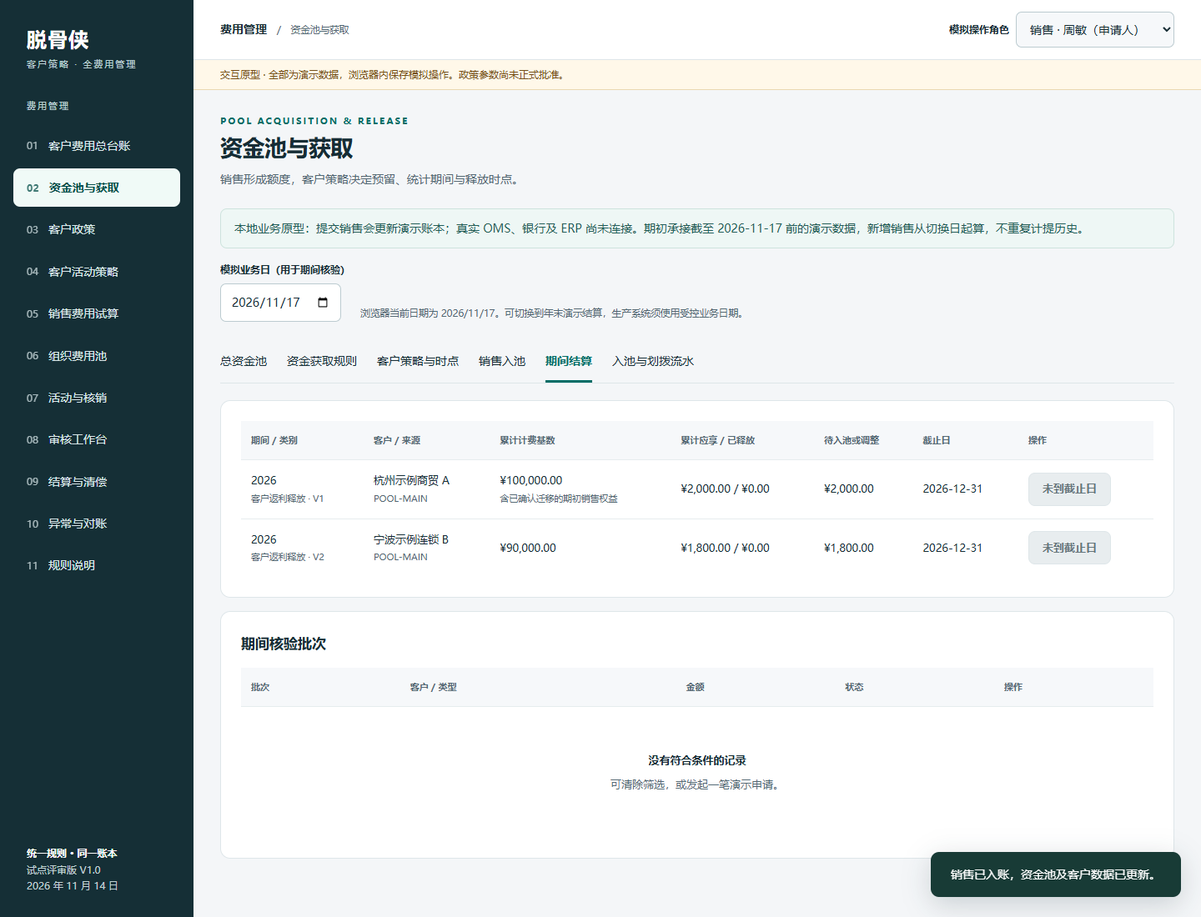
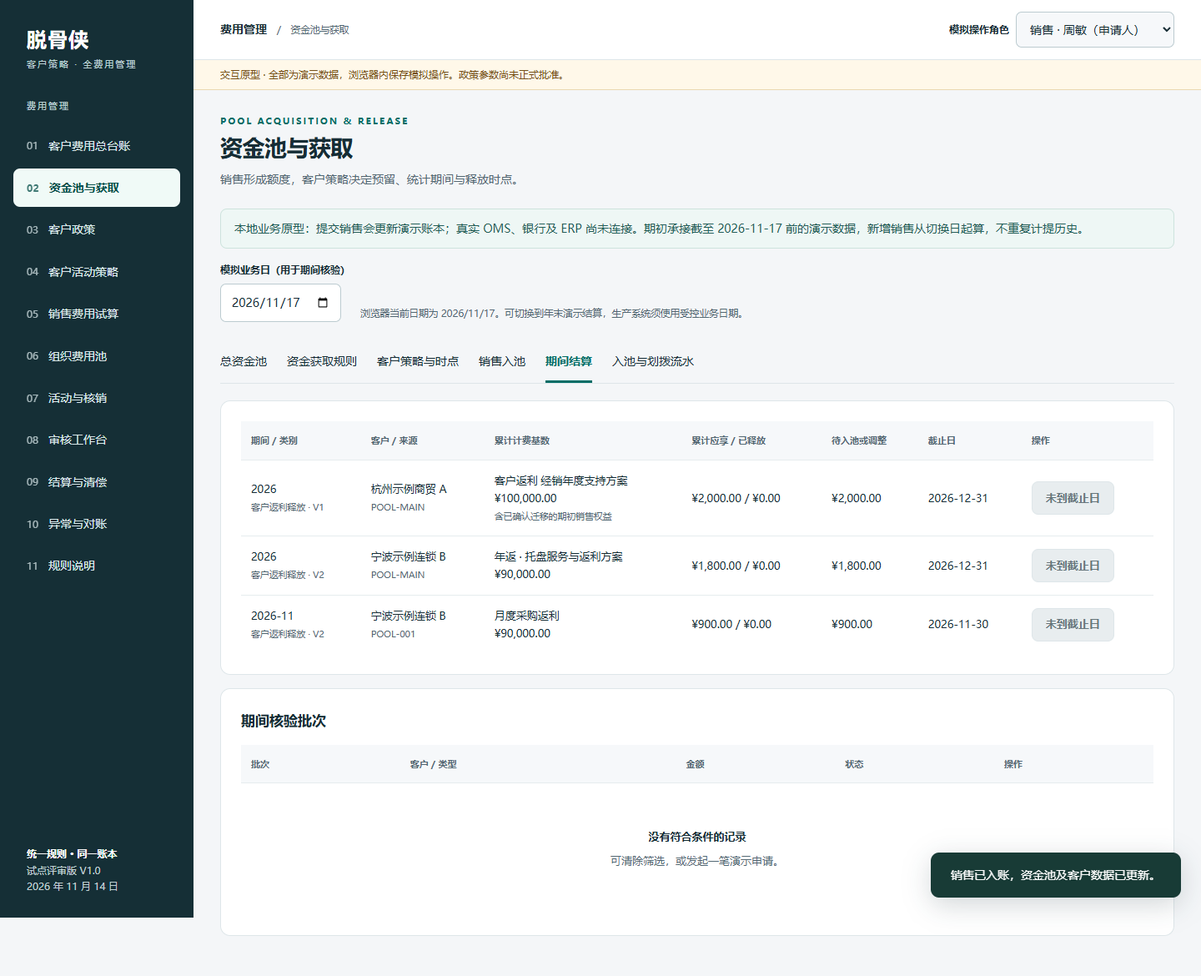
Auto sync 2026-11-17 12:02:47

diff --git a/09-设计与原型/全费用管理/原型.html b/09-设计与原型/全费用管理/原型.html
@@ -1768,26 +1768,27 @@ function ensureFunding(){if(state.funding){if(!state.funding.openingRights){stat
 function fundPeriod(date,timing){const y=date.slice(0,4),m=+date.slice(5,7);if(timing==='instant')return{key:date,end:date};if(timing==='month'){const last=new Date(Date.UTC(+y,m,0)).toISOString().slice(0,10);return{key:date.slice(0,7),end:last}}if(timing==='quarter'){const q=Math.ceil(m/3);return{key:y+'-Q'+q,end:new Date(Date.UTC(+y,q*3,0)).toISOString().slice(0,10)}}return{key:y,end:y+'-12-31'}}
 function earningAmount(rule,base,qty){if(rule.method==='quantity')return Math.round(qty*rule.unit);if(rule.method==='tier'){const hit=rule.tiers.filter(t=>base>=t.min).at(-1);return Math.round(base*(hit?.rate||0)/100)}return Math.round(base*rule.rate/100)}
 function annualEntitlement(link,base){if(link.rebateMethod!=='tier')return Math.round(base*link.rebateRate/100);if(link.tierMode==='whole')return Math.round(base*(link.tiers.filter(t=>base>=t.min).at(-1)?.rate||0)/100);return link.tiers.reduce((n,t,i)=>n+Math.round(Math.max(0,Math.min(base,link.tiers[i+1]?.min??base)-t.min)*t.rate/100),0)}
+function fundingStrategyLinks(s){return[s.link,...(s.link.strategies||[]).map(x=>({...clone(s.link),...clone(x),id:s.link.id+'/'+x.id,strategies:[],rebateMethod:'rate',serviceRate:0}))]}
 function fundingGroups(){ensureFunding();const f=state.funding,map=new Map();for(const o of f.openingRights||[]){const key='rebate|'+o.link.id+'@'+o.link.version+'|'+o.customer+'|'+o.period.key;map.set(key,{key,kind:'rebate',customer:o.customer,pool:o.link.sourcePool,period:o.period,version:o.link.version,name:'客户返利 '+o.policy.name,rows:[o.id],basis:o.base,target:0,openingReserve:o.reserve,link:o.link})}for(const s of f.sales){const rk=s.rule.id+'@'+s.rule.version,lk=s.link.id+'@'+s.link.version;
  if(s.rule.timing!=='instant'){const key='earn|'+rk+'|'+s.customer+'|'+s.period.key;if(!map.has(key))map.set(key,{key,kind:'earn',customer:s.customer,pool:s.rule.pool,period:s.period,version:s.rule.version,name:s.rule.name,rows:[],target:0,basis:0,service:0,rebate:0});const g=map.get(key);g.rows.push(s.id);g.target+=s.earning;g.basis+=s.base;g.service+=s.service;g.rebate+=s.instantRebate}
- const period=s.rebatePeriod||fundPeriod(s.date,s.link.rebateTiming);const key='rebate|'+lk+'|'+s.customer+'|'+period.key;if(!map.has(key))map.set(key,{key,kind:'rebate',customer:s.customer,pool:s.link.sourcePool,period,version:s.link.version,name:'客户返利 '+s.policy.name,rows:[],basis:0,target:0,link:s.link});const g=map.get(key);g.rows.push(s.id);g.basis+=s.base;
+ for(const link of fundingStrategyLinks(s)){const period=s.strategyPeriods?.[link.id]||s.rebatePeriod||fundPeriod(s.date,link.rebateTiming);const key='rebate|'+link.id+'@'+link.version+'|'+s.customer+'|'+period.key;if(!map.has(key))map.set(key,{key,kind:'rebate',customer:s.customer,pool:link.sourcePool,period,version:link.version,name:link.strategyName||'年返 · '+s.policy.name,rows:[],basis:0,target:0,link});const g=map.get(key);g.rows.push(s.id);g.basis+=s.base;}
  }for(const g of map.values()){g.target=Math.max(0,g.kind==='rebate'?annualEntitlement(g.link,Math.max(0,g.basis)):g.target);g.released=g.kind==='earn'?sum(f.credits.filter(c=>c.group===g.key).map(c=>c.amount)):sum(f.transfers.filter(t=>t.group===g.key).map(t=>t.amount));g.delta=g.target-g.released;g.signature=JSON.stringify([g.rows,g.target,g.basis,g.service,g.rebate]);g.ready=f.date>=g.period.end;g.pending=f.batches.find(b=>b.key===g.key&&b.status==='pending');}return[...map.values()].filter(g=>g.target||g.released||g.kind==='earn')}
 function fundingActivityBalance(poolId){const used=[0,0,0,0],occupied=[0,0,0,0];for(const a of state.activities){if((a.fundingPoolId||MAIN_POOL)!==poolId)continue;if(a.status==='closed'){splitAmount(a.actual,a.shares.map(n=>n/a.amount*100)).forEach((n,i)=>used[i]+=n)}else if(['approved','review'].includes(a.status))a.shares.forEach((n,i)=>occupied[i]+=n)}return{used,occupied}}
 function fundingPoolTotals(id){ensureFunding();const f=state.funding,p=f.pools.find(p=>p.id===id);if(!p)return null;const credits=f.credits.filter(c=>c.pool===id),earned=sum(credits.map(c=>c.amount)),incoming=sum(f.transfers.filter(t=>t.target===id).map(t=>t.amount)),outgoing=sum(f.transfers.filter(t=>t.source===id).map(t=>t.amount)),paid=sum(f.payouts.filter(x=>x.pool===id).map(x=>x.amount));
  if(p.kind==='rebate'){return{pool:p,initial:p.initial,earned:0,incoming,outgoing:0,reserve:0,used:paid,occupied:0,source:p.initial+incoming,available:Math.max(0,p.initial+incoming-paid),gap:Math.max(0,paid-p.initial-incoming),paid}}
- const initial=p.status==='active'?p.initial:0,legacyReserve=p.legacy?300000-sum(f.transfers.filter(t=>t.source===id).map(t=>t.openingConsumed||0)):0,legacyConfirmed=p.legacy?200000:0,service=sum(credits.map(c=>c.service||0)),immediateR=Math.max(0,sum(credits.map(c=>c.rebate||0))-sum(f.transfers.filter(t=>t.source===id&&f.batches.find(b=>b.id===t.batch)?.instantRebate).map(t=>t.amount)));const early=sum(fundingGroups().filter(g=>g.kind==='rebate'&&g.pool===id&&g.link.lockEarly&&g.link.rebateTiming!=='instant').map(g=>Math.max(0,g.delta-Math.max(0,(g.openingReserve||0)-Math.min(g.released,g.openingReserve||0)))));const a=fundingActivityBalance(id),reserve=legacyReserve+service+immediateR+early,source=initial+earned,used=legacyConfirmed+sum(a.used),occupied=sum(a.occupied),raw=source-outgoing-reserve-used-occupied;return{pool:p,initial,earned,incoming:0,outgoing,reserve,service,early,source,used,occupied,available:Math.max(0,raw),gap:Math.max(0,-raw),activity:a,raw,legacyConfirmed}}
+ const initial=p.status==='active'?p.initial:0,legacyReserve=p.legacy?300000-sum(f.transfers.filter(t=>t.source===id).map(t=>t.openingConsumed||0)):0,legacyConfirmed=p.legacy?200000:0,service=sum(credits.map(c=>c.service||0)),immediateR=sum(fundingGroups().filter(g=>g.kind==='rebate'&&g.pool===id&&g.link.rebateTiming==='instant').map(g=>Math.max(0,g.delta)));const early=sum(fundingGroups().filter(g=>g.kind==='rebate'&&g.pool===id&&g.link.lockEarly&&g.link.rebateTiming!=='instant').map(g=>Math.max(0,g.delta-Math.max(0,(g.openingReserve||0)-Math.min(g.released,g.openingReserve||0)))));const a=fundingActivityBalance(id),reserve=legacyReserve+service+immediateR+early,source=initial+earned,used=legacyConfirmed+sum(a.used),occupied=sum(a.occupied),raw=source-outgoing-reserve-used-occupied;return{pool:p,initial,earned,incoming:0,outgoing,reserve,service,early,source,used,occupied,available:Math.max(0,raw),gap:Math.max(0,-raw),activity:a,raw,legacyConfirmed}}
 function fundingOrgBalances(id){const t=fundingPoolTotals(id);if(!t||t.pool.kind!=='operating')return{used:[0,0,0,0],occupied:[0,0,0,0],available:[0,0,0,0],gap:[0,0,0,0]};const gross=t.source-t.reserve-t.legacyConfirmed-t.outgoing,distributed=splitAmount(gross,t.pool.ratios);return{...t.activity,available:distributed.map((v,i)=>Math.max(0,v-t.activity.used[i]-t.activity.occupied[i])),gap:distributed.map((v,i)=>Math.max(0,t.activity.used[i]+t.activity.occupied[i]-v)),gross:distributed}}
 function postFundingSale(input){ensureFunding();const f=state.funding;if(input.date<FUND_CUTOVER)throw Error('切换日前销售已由期初承接，请使用迁移核对，不能重复计提。');if(input.date>f.date)throw Error('销售日期不能晚于模拟业务日。');if(!input.doc.trim()||!input.line.trim())throw Error('请填写来源订单与行号。');const duplicate=f.sales.some(s=>s.doc===input.doc&&s.line===input.line&&s.kind===input.kind);if(duplicate)throw Error('同一来源订单行与事件已处理，不能重复计提。更正需关联原销售调整。');let s;
  if(input.kind==='return'){const original=f.sales.find(s=>s.id===input.original&&s.kind==='sale');if(!original)throw Error('请选择原销售行。');if(input.date<original.date)throw Error('退货业务日期不能早于原销售。');const returned=f.sales.filter(s=>s.original===original.id);const remain=original.base+sum(returned.map(s=>s.base)),qtyLeft=original.qty+sum(returned.map(s=>s.qty));if(input.base<=0||input.base>remain||input.qty<0||input.qty>qtyLeft)throw Error('退货金额或数量超过原销售剩余可退部分。');if(original.rule.method==='quantity'&&input.qty<=0)throw Error('按数量获取的退货必须填写正数退货数量。');const before=earningAmount(original.rule,remain,qtyLeft),after=earningAmount(original.rule,remain-input.base,qtyLeft-input.qty);s={...clone(original),id:nextId('SALE-',f.sales),kind:'return',original:original.id,doc:input.doc,line:input.line,date:input.date,base:-input.base,qty:-input.qty,earning:after-before,service:-Math.round(input.base*original.link.serviceRate/100),instantRebate:0};s.instantRebate=original.link.rebateTiming==='instant'?-Math.round(input.base*original.link.rebateRate/100):0;s.period=original.period;
  }else{if(input.base<=0||input.qty<0)throw Error('请填写正数销售金额和非负数量。');const candidates=[...(f.ruleVersions||[]),...f.rules].filter(r=>r.status==='active'&&r.from<=input.date&&r.to>=input.date);const matches=[...new Map(candidates.sort((a,b)=>a.version-b.version).map(r=>[r.id,r])).values()].filter(r=>(r.customer==='*'||r.customer===input.customer)&&(r.sku==='*'||r.sku===input.sku));if(matches.length!==1)throw Error(matches.length?'资金获取规则冲突，请保证唯一匹配。':'未匹配有效资金获取规则，请先配置。');const rule=clone(matches[0]),linkCandidates=[...(f.bindingVersions||[]),...f.bindings].filter(l=>l.status==='active'&&l.customer===input.customer&&l.from<=input.date&&l.to>=input.date);const links=[...new Map(linkCandidates.sort((a,b)=>a.version-b.version).map(l=>[l.id,l])).values()];if(links.length!==1)throw Error('客户资金策略缺失或冲突，请先配置唯一有效版本。');const link=clone(links[0]),policy=state.policySchemes.find(p=>p.id===link.policyId&&p.status==='active');if(!policy||policy.customer!==input.customer||link.sourcePool!==rule.pool)throw Error('客户政策、来源池与获取规则不一致，请核对。');const pool=f.pools.find(p=>p.id===rule.pool);if(pool?.status!=='active'||pool.kind!=='operating')throw Error('目标资金池尚未启用或不允许销售获取。');s={...input,id:nextId('SALE-',f.sales),kind:'sale',rule,link,policy:clone(policy),period:fundPeriod(input.date,rule.timing),earning:earningAmount(rule,input.base,input.qty),service:Math.round(input.base*link.serviceRate/100),instantRebate:link.rebateTiming==='instant'?Math.round(input.base*link.rebateRate/100):0};}
- if(!Number.isSafeInteger(s.earning))throw Error('金额超出有效精度范围。');s.rebatePeriod=s.rebatePeriod||fundPeriod(s.date,s.link.rebateTiming);s.status=s.rule.timing==='instant'?'posted':'period';if(s.rule.timing==='instant'&&!(s.kind==='return'&&!f.credits.some(c=>c.sale===s.original))){const p=f.pools.find(p=>p.id===s.rule.pool),current=fundingPoolTotals(p.id);if(s.earning>0&&current.source+s.earning>p.cap){s.status='blocked'}else f.credits.push({id:nextId('CREDIT-',f.credits),pool:p.id,customer:s.customer,sale:s.id,amount:s.earning,service:s.service,rebate:s.instantRebate,rule:s.rule.id,ruleVersion:s.rule.version,date:f.date});}
+ if(!Number.isSafeInteger(s.earning))throw Error('金额超出有效精度范围。');s.rebatePeriod=s.rebatePeriod||fundPeriod(s.date,s.link.rebateTiming);if(!s.strategyPeriods){s.strategyPeriods={};for(const link of fundingStrategyLinks(s))s.strategyPeriods[link.id]=fundPeriod(s.date,link.rebateTiming);}s.status=s.rule.timing==='instant'?'posted':'period';if(s.rule.timing==='instant'&&!(s.kind==='return'&&!f.credits.some(c=>c.sale===s.original))){const p=f.pools.find(p=>p.id===s.rule.pool),current=fundingPoolTotals(p.id);if(s.earning>0&&current.source+s.earning>p.cap){s.status='blocked'}else f.credits.push({id:nextId('CREDIT-',f.credits),pool:p.id,customer:s.customer,sale:s.id,amount:s.earning,service:s.service,rebate:s.instantRebate,rule:s.rule.id,ruleVersion:s.rule.version,date:f.date});}
  if(s.kind==='return'&&s.rule.timing==='instant'&&!f.credits.some(c=>c.sale===s.original))s.status='pendingOriginal';f.sales.push(s);save();return s}
 function retryFundingSale(id){const f=state.funding,s=f.sales.find(s=>s.id===id);if(s?.status!=='blocked')throw Error('该销售无需重试。');const returns=f.sales.filter(r=>r.original===s.id),base=s.base+sum(returns.map(r=>r.base)),qty=s.qty+sum(returns.map(r=>r.qty)),amount=earningAmount(s.rule,base,qty),p=f.pools.find(p=>p.id===s.rule.pool);if(fundingPoolTotals(p.id).source+amount>p.cap)throw Error('仍超过预算上限，请先审批调整上限。');f.credits.push({id:nextId('CREDIT-',f.credits),pool:p.id,customer:s.customer,sale:s.id,amount,service:Math.round(base*s.link.serviceRate/100),rebate:s.link.rebateTiming==='instant'?Math.round(base*s.link.rebateRate/100):0,rule:s.rule.id,ruleVersion:s.rule.version,date:f.date});s.status='posted';returns.forEach(r=>r.status='posted');save()}
 function prepareFundingBatch(key){const f=state.funding,g=fundingGroups().find(g=>g.key===key);if(!g||!g.ready)throw Error('统计期间尚未结束，不能提前入池或释放。');if(g.pending)throw Error('同一期间已有待审批次。');if(g.delta<=0)throw Error(g.delta<0?'已释放金额超过最新应享，请保留历史并进入冲销或追偿调整，不能重复释放。':'本期间无待处理差额。');if($('role').value!=='sales')throw Error('请由销售申请人发起期间核验。');const b={id:nextId('BATCH-',f.batches),key:g.key,kind:g.kind,customer:g.customer,pool:g.pool,amount:g.delta,target:g.target,basis:g.basis,signature:g.signature,period:g.period,service:(g.service||0)-sum(f.credits.filter(c=>c.group===g.key).map(c=>c.service||0)),rebate:(g.rebate||0)-sum(f.credits.filter(c=>c.group===g.key).map(c=>c.rebate||0)),instantRebate:g.link?.rebateTiming==='instant',status:'pending',step:0,applicant:'sales',logs:[{who:'sales',action:'提交期间核验',date:f.date}]};f.batches.push(b);save();return b}
 function approveFundingBatch(id,reject,note){const f=state.funding,b=f.batches.find(b=>b.id===id),role=$('role').value;if(b?.status!=='pending')throw Error('该批次无待审节点。');if(role===b.applicant)throw Error('不能审批本人申请。');if(role!==['business','finance'][b.step])throw Error('当前需要 '+roles[['business','finance'][b.step]]+'。');if(reject&&!note.trim())throw Error('请填写驳回原因。');const g=fundingGroups().find(g=>g.key===b.key);if(!reject&&(!g||g.signature!==b.signature))throw Error('销售或退货明细已变化，请驳回后按最新累计结果重新申请。');if(f.date<b.period.end)throw Error('未到期间截止日。');
  if(!reject&&b.step===1){if(b.kind==='earn'){const pool=f.pools.find(p=>p.id===b.pool);if(fundingPoolTotals(pool.id).source+b.amount>pool.cap)throw Error('入池后超过预算上限，请先调整授权上限。');f.credits.push({id:nextId('CREDIT-',f.credits),pool:pool.id,customer:b.customer,group:b.key,batch:b.id,amount:b.amount,service:b.service,rebate:b.rebate,date:f.date})}else{const pool=fundingPoolTotals(b.pool),openingLock=Math.max(0,(g.openingReserve||0)-Math.min(g.released,g.openingReserve||0)),ownLock=g.link.lockEarly||g.link.rebateTiming==='instant'?Math.max(0,g.delta):openingLock;if(pool.available+ownLock-pool.gap<b.amount)throw Error('来源池余额不足，返利权益保留，请先补足资金。');const target='REBATE-'+b.customer;if(!f.pools.some(p=>p.id===target))f.pools.push({id:target,name:customer(b.customer).name+'返利专属池',kind:'rebate',customer:b.customer,initial:0,cap:Number.MAX_SAFE_INTEGER,status:'active',from:'2026-01-01',to:'2099-12-31'});f.transfers.push({id:nextId('TRANSFER-',f.transfers),source:b.pool,target,customer:b.customer,amount:b.amount,group:b.key,batch:b.id,openingConsumed:Math.min(b.amount,openingLock),date:f.date});const after=fundingOrgBalances(b.pool);if(after.gap.some(n=>n>0)){f.transfers.pop();throw Error('来源池部分组织额度已被占用，请先完成组织补足或调拨。');}b.targetPool=target}}
  b.logs.push({who:role,action:reject?'驳回':'通过',note,date:f.date});if(reject)b.status='rejected';else if(++b.step===2)b.status='approved';save();return b}
-function fundingCustomerData(cid){const f=state.funding,sales=f.sales.filter(s=>s.customer===cid),credits=f.credits.filter(c=>c.customer===cid),groups=fundingGroups().filter(g=>g.customer===cid&&g.kind==='rebate'),released=sum(f.transfers.filter(t=>t.customer===cid).map(t=>t.amount)),paid=sum(f.payouts.filter(p=>p.customer===cid).map(p=>p.amount));return{sales:sum(sales.map(s=>s.base)),earned:sum(credits.map(c=>c.amount)),service:sum(credits.map(c=>c.service||0)),instantR:sum(credits.map(c=>c.rebate||0)),pending:sum(groups.map(g=>Math.max(0,g.delta))),released,paid,rebateAvailable:released-paid,groups}}
+function fundingCustomerData(cid){const f=state.funding,sales=f.sales.filter(s=>s.customer===cid),credits=f.credits.filter(c=>c.customer===cid),groups=fundingGroups().filter(g=>g.customer===cid&&g.kind==='rebate'),released=sum(f.transfers.filter(t=>t.customer===cid).map(t=>t.amount)),paid=sum(f.payouts.filter(p=>p.customer===cid).map(p=>p.amount));return{sales:sum(sales.map(s=>s.base)),earned:sum(credits.map(c=>c.amount)),service:sum(credits.map(c=>c.service||0)),instantR:sum(groups.filter(g=>g.link.rebateTiming==='instant').map(g=>Math.max(0,g.delta))),pending:sum(groups.map(g=>Math.max(0,g.delta))),released,paid,rebateAvailable:released-paid,groups}}
 
 const fundingTiming={instant:'即时入池',month:'月末核验',quarter:'季末核验',year:'年末核验'};let fundingTab='pools';
 if(!pages.some(p=>p[0]==='funding')){pages.splice(1,0,['funding','02','资金池与获取']);pages.forEach((p,i)=>p[1]=String(i+1).padStart(2,'0'))}
@@ -1796,17 +1797,20 @@ const fs=(id,label,options,current,extra='')=>`<div class="field"><label for="${
 function fundingView(){ensureFunding();const f=state.funding;return heading('POOL ACQUISITION & RELEASE','资金池与获取','销售形成额度，客户策略决定预留、统计期间与释放时点。')+`<div class="banner">本地业务原型：提交销售会更新演示账本；真实 OMS、银行及 ERP 尚未连接。期初承接截至 ${FUND_CUTOVER} 前的演示数据，新增销售从切换日起算，不重复计提历史。</div><div class="toolbar"><div><label for="fundingDate">模拟业务日（用于期间核验）</label><input type="date" id="fundingDate" value="${f.date}"></div><small>浏览器当前日期为 ${new Date().toLocaleDateString('zh-CN')}。可切换到年末演示结算，生产系统须使用受控业务日期。</small></div><div class="tabs">${[['pools','总资金池'],['rules','资金获取规则'],['bindings','客户策略与时点'],['sales','销售入池'],['period','期间结算'],['flows','入池与划拨流水']].map(([id,n])=>`<button data-funding-tab="${id}" aria-selected="${fundingTab===id}">${n}</button>`).join('')}</div>${({pools:fundingPoolsView,rules:fundingRulesView,bindings:fundingBindingsView,sales:fundingSalesView,period:fundingPeriodView,flows:fundingFlowsView})[fundingTab]()}`}
 function fundingPoolsView(){return`<div class="actions" style="margin-bottom:16px"><button class="primary" data-funding-pool-new>新建资金池</button></div><section class="card">${table(['资金池 / 用途','预算上限','初始来源 / 销售获取','划入 / 划出','预留','已用 / 占用','可用 / 缺口','操作'],state.funding.pools.map(p=>{const t=fundingPoolTotals(p.id);return[`${esc(p.name)}<br><small>${p.id} · ${p.kind==='rebate'?'客户返利专属，禁止普通活动':'经营活动总池'} · ${p.status==='active'?'已启用':'草稿'}</small>`,p.kind==='rebate'?'按批准返利批次':money(p.cap),money(t.initial)+' / '+money(t.earned),money(t.incoming)+' / '+money(t.outgoing),money(t.reserve),money(t.used)+' / '+money(t.occupied),`<strong>${money(t.available)}</strong> / ${money(t.gap)}`,`<button class="small" data-funding-pool="${p.id}">配置</button>${p.status==='draft'?`<button class="small" data-funding-activate="${p.id}">财务启用</button>`:''}`]}))}</section><p class="note">总池与客户返利池是来源与用途的分账，内部划拨不增加公司总来源。客户返利专属池只能用于已批准返利清偿。上限不是已获取资金。</p>`}
 function fundingRulesView(){return`<div class="actions" style="margin-bottom:16px"><button class="primary" data-funding-rule-new>新建获取规则</button></div><section class="card">${table(['获取规则 / 版本','目标池 / 客户 / SKU','获取方式','入池时点','有效期','操作'],state.funding.rules.map(r=>[esc(r.name)+'<br><small>'+r.id+' / V'+r.version+'</small>',esc(r.pool)+'<br><small>'+(r.customer==='*'?'全部客户':customer(r.customer).name)+' / '+esc(r.sku)+'</small>',r.method==='quantity'?money(r.unit)+' / 数量':r.method==='tier'?'单笔金额阶梯，达档全额':r.rate+'% × 不含税净销售额',fundingTiming[r.timing],r.from+' 至 '+r.to,`<button class="small" data-funding-rule="${r.id}">新版本配置</button>`]))}</section><p class="note">同一销售行必须唯一匹配规则；保存新版本后，新销售使用新版本，原销售和退货继续引用原快照。</p>`}
-function fundingBindingsView(){return`<section class="card">${table(['客户 / 商业政策','来源池','返利计提','返利入池时点','年内来源处理','服务预留','操作'],state.funding.bindings.map(l=>[customer(l.customer).name+'<br><small>'+l.policyId+' / 配置 V'+l.version+'</small>',l.sourcePool,l.rebateMethod==='tier'?'按期间净销售阶梯':l.rebateRate+'% × 净销售额',fundingTiming[l.rebateTiming],l.lockEarly?'先统计并锁定来源额度':'先统计，不提前增加返利池余额',l.serviceRate+'%',`<button class="small" data-funding-binding="${l.id}">配置时点与来源</button>`]))}</section><div class="banner">年返先累计应享权益，年末核验、审批后从来源池划入客户返利池；实际发放再清偿客户应付。可选择年内提前预留来源资金，但不能提前把预计返利当成客户可用额度。</div>`}
+function fundingBindingsView(){return`<section class="card">${table(['客户 / 商业政策','来源池','返利计提','返利入池时点','年内来源处理','服务预留','操作'],state.funding.bindings.map(l=>[customer(l.customer).name+'<br><small>'+l.policyId+' / 配置 V'+l.version+'</small>',l.sourcePool,l.rebateMethod==='tier'?'按期间净销售阶梯':l.rebateRate+'% × 净销售额',fundingTiming[l.rebateTiming],l.lockEarly?'先统计并锁定来源额度':'先统计，不提前增加返利池余额',l.serviceRate+'%<br><small>另有 '+(l.strategies||[]).length+' 条返利策略</small>',`<button class="small" data-funding-binding="${l.id}">配置时点与来源</button>`]))}</section><div class="banner">年返先累计应享权益，年末核验、审批后从来源池划入客户返利池；实际发放再清偿客户应付。可选择年内提前预留来源资金，但不能提前把预计返利当成客户可用额度。</div>`}
 function fundingSalesView(){return`<div class="actions" style="margin-bottom:16px"><button class="primary" data-funding-sale-new>登记签收销售 / 退货</button></div><section class="card">${table(['事件 / 来源行','客户 / 日期','净销售 / 数量','规则与客户策略快照','计提获取额','状态','操作'],state.funding.sales.map(s=>[s.id+'<br><small>'+esc(s.doc)+' / '+esc(s.line)+' · '+(s.kind==='return'?'退货关联 '+s.original:'有效签收')+'</small>',customer(s.customer).name+'<br><small>'+s.date+'</small>',money(s.base)+' / '+s.qty,s.rule.id+' V'+s.rule.version+'<br><small>'+s.link.id+' V'+s.link.version+'</small>',money(s.earning),({posted:tag('已同步账本','ok'),period:tag('待期间入池','warn'),blocked:tag('超过上限，待处理','bad'),pendingOriginal:tag('等待原销售入池','warn')})[s.status],s.status==='blocked'?`<button data-funding-retry="${s.id}">重试入池</button>`:'—']))}</section>`}
-function fundingPeriodView(){return`<section class="card">${table(['期间 / 类别','客户 / 来源','累计计费基数','累计应享 / 已释放','待入池或调整','截止日','操作'],fundingGroups().map(g=>[g.period.key+'<br><small>'+(g.kind==='earn'?'销售获取入池':'客户返利释放')+' · V'+g.version+'</small>',customer(g.customer).name+'<br><small>'+g.pool+'</small>',money(g.basis)+(g.openingReserve?'<br><small>含已确认迁移的期初销售权益</small>':''),money(g.target)+' / '+money(g.released),money(g.delta)+(g.delta<0?'<br>'+tag('需冲销或追偿','bad'):''),g.period.end, g.pending?`<button data-funding-batch="${g.pending.id}">查看待审</button>`:g.delta>0?`<button data-funding-prepare="${esc(g.key)}" ${g.ready?'':'disabled'}>${g.ready?'发起期间核验':'未到截止日'}</button>`:'—']))}</section><section class="card" style="margin-top:16px"><h2>期间核验批次</h2>${table(['批次','客户 / 类型','金额','状态','操作'],state.funding.batches.map(b=>[b.id,customer(b.customer).name+' / '+(b.kind==='earn'?'销售入池':'客户返利'),money(b.amount),({pending:tag('待'+roles[['business','finance'][b.step]],'warn'),approved:tag('已入池','ok'),rejected:tag('已驳回','bad')})[b.status],`<button data-funding-batch="${b.id}">审批记录</button>`]))}</section>`}
+function fundingPeriodView(){return`<section class="card">${table(['期间 / 类别','客户 / 来源','累计计费基数','累计应享 / 已释放','待入池或调整','截止日','操作'],fundingGroups().map(g=>[g.period.key+'<br><small>'+(g.kind==='earn'?'销售获取入池':'客户返利释放')+' · V'+g.version+'</small>',customer(g.customer).name+'<br><small>'+g.pool+'</small>',esc(g.name)+'<br>'+money(g.basis)+(g.openingReserve?'<br><small>含已确认迁移的期初销售权益</small>':''),money(g.target)+' / '+money(g.released),money(g.delta)+(g.delta<0?'<br>'+tag('需冲销或追偿','bad'):''),g.period.end, g.pending?`<button data-funding-batch="${g.pending.id}">查看待审</button>`:g.delta>0?`<button data-funding-prepare="${esc(g.key)}" ${g.ready?'':'disabled'}>${g.ready?'发起期间核验':'未到截止日'}</button>`:'—']))}</section><section class="card" style="margin-top:16px"><h2>期间核验批次</h2>${table(['批次','客户 / 类型','金额','状态','操作'],state.funding.batches.map(b=>[b.id,customer(b.customer).name+' / '+(b.kind==='earn'?'销售入池':'客户返利'),money(b.amount),({pending:tag('待'+roles[['business','finance'][b.step]],'warn'),approved:tag('已入池','ok'),rejected:tag('已驳回','bad')})[b.status],`<button data-funding-batch="${b.id}">审批记录</button>`]))}</section>`}
 function fundingFlowsView(){const f=state.funding;return`<section class="card"><h2>销售获取入池流水</h2>${table(['流水','目标池 / 客户','来源销售或批次','入池 / 服务预留 / 即时返利预留','日期'],f.credits.map(c=>[c.id,c.pool+' / '+customer(c.customer).name,c.sale||c.batch,money(c.amount)+' / '+money(c.service||0)+' / '+money(c.rebate||0),c.date]))}<h2 style="margin-top:24px">返利来源划拨</h2>${table(['流水','来源 → 返利专属池','客户 / 批次','金额','日期'],f.transfers.map(t=>[t.id,t.source+' → '+t.target,customer(t.customer).name+' / '+t.batch,money(t.amount),t.date]))}<h2 style="margin-top:24px">已发放返利</h2>${table(['清偿流水','客户 / 批次','方式','金额','业务日期'],f.payouts.map(p=>[esc(p.ref),customer(p.customer).name+' / '+p.batch,p.method==='cash'?'现金':'货款抵扣',money(p.amount),p.date]))}</section>`}
 function openFundingPool(id){const p=state.funding.pools.find(p=>p.id===id)||{name:'',initial:0,cap:10000000,from:FUND_CUTOVER,to:'2026-12-31',kind:'operating',status:'draft',ratios:[10,20,20,50]},active=p.status==='active';launchPage({kind:'fundingPool',id},()=>showModal(id?'资金池配置':'新建资金池',`<form id="fundingPoolForm" data-id="${id||''}"><div class="fields">${ff('fpName','资金池名称 *',p.name,'text','required maxlength="60"')}${ff('fpInitial','初始来源（元）',p.initial/100,'number',`min="0" step="0.01" required ${active?'readonly':''}`)}${ff('fpCap','预算上限（元）',p.kind==='rebate'?p.initial/100:p.cap/100,'number',`min="0" step="0.01" required ${p.kind==='rebate'?'readonly':''}`)}${ff('fpFrom','开始日期',p.from,'date','required')}${ff('fpTo','结束日期',p.to,'date','required')}${(p.ratios||[0,0,0,100]).map((v,i)=>ff('fpRatio'+i,['总部','中心','大区','省区'][i]+'分配 %',v,'number',`min="0" max="100" step="0.01" required ${active?'readonly':''}`)).join('')}</div><p class="note">启用后初始来源及组织比例固定，补充资金可新建独立来源池，避免改写历史。修改上限由财务角色处理，不能降到已使用和承诺之下。</p><p id="fundingError" class="error-text" role="alert"></p><button class="primary">保存资金池配置</button></form>`))}
 function fundingTierFields(prefix,tiers){return tiers.map((t,i)=>`<div class="fields" style="margin-top:8px">${ff(prefix+'Min'+i,'第'+(i+1)+'档门槛（元）',t.min/100,'number','min="0" step="0.01" required')}${ff(prefix+'Rate'+i,'第'+(i+1)+'档比例 %',t.rate,'number','min="0" max="100" step="0.01" required')}</div>`).join('')}
 function openFundingRule(id){const r=state.funding.rules.find(r=>r.id===id)||{name:'',pool:MAIN_POOL,customer:'*',sku:'*',method:'rate',rate:10,unit:100,timing:'instant',from:FUND_CUTOVER,to:'2026-12-31',tiers:[{min:5000000,rate:1},{min:10000000,rate:2},{min:20000000,rate:3}]};launchPage({kind:'fundingRule',id},()=>showModal('资金获取规则'+(id?'新版本':''),`<form id="fundingRuleForm" data-id="${id||''}"><div class="fields">${ff('frName','规则名称 *',r.name,'text','required')}${fs('frPool','目标资金池',state.funding.pools.filter(p=>p.kind==='operating'&&p.status==='active').map(p=>[p.id,p.name]),r.pool)}${fs('frCustomer','适用客户',[['*','全部客户'],...customers.map(c=>[c.id,c.name])],r.customer)}${ff('frSku','适用 SKU，* 为全部',r.sku,'text','required')}${fs('frMethod','获取方式',[['rate','销售金额比例'],['quantity','每数量固定金额'],['tier','单笔金额阶梯达档全额']],r.method)}${ff('frRate','金额比例 %',r.rate,'number','min="0" max="100" step="0.01" required')}${ff('frUnit','每数量获取（元）',r.unit/100,'number','min="0" step="0.01" required')}${fs('frTiming','入池时点',Object.entries(fundingTiming),r.timing)}${ff('frFrom','生效日期',r.from,'date','required')}${ff('frTo','结束日期',r.to,'date','required')}</div><section id="frTierSection"><h3>单笔阶梯</h3>${fundingTierFields('fr',r.tiers)}</section><p class="note">完成签收后自动匹配。月、季、年末方式只先记录待入池，核验审批后才增加可用来源。保存新版本不会重算历史销售。</p><p id="fundingError" class="error-text" role="alert"></p><button class="primary">保存规则新版本</button></form>`))}
-function openFundingBinding(id){const l=state.funding.bindings.find(l=>l.id===id);launchPage({kind:'fundingBinding',id},()=>showModal(customer(l.customer).name+' · 客户策略资金时点',`<form id="fundingBindingForm" data-id="${id}"><div class="banner">配置 V${l.version}；新销售使用新版本，既有销售及年返统计保留原快照。入池与给客户付款是两个独立步骤。</div><div class="fields">${fs('fbPolicy','客户商业政策',state.policySchemes.filter(p=>p.customer===l.customer&&p.status==='active').map(p=>[p.id,p.name+' V'+p.version]),l.policyId)}${fs('fbPool','返利来源池',state.funding.pools.filter(p=>p.kind==='operating'&&p.status==='active').map(p=>[p.id,p.name]),l.sourcePool)}${fs('fbTiming','客户返利核验释放时点',Object.entries(fundingTiming),l.rebateTiming)}${fs('fbMethod','返利计算',[['rate','期间净销售固定比例'],['tier','期间累计阶梯']],l.rebateMethod)}${ff('fbRate','固定返利比例 %',l.rebateRate,'number','min="0" max="100" step="0.01" required')}${fs('fbTierMode','累计阶梯方式',[['whole','达档全额'],['segment','按区间分段']],l.tierMode)}${fs('fbLock','入池前的来源处理',[['no','先记录，期末再从来源池划拨'],['yes','先记录并预留来源额度，期末释放']],l.lockEarly?'yes':'no')}${ff('fbService','服务费用销售预留 %',l.serviceRate,'number','min="0" max="100" step="0.01" required')}${ff('fbFrom','新配置生效日',l.from,'date','required')}${ff('fbTo','配置结束日',l.to,'date','required')}</div><section id="fbTierSection"><h3>年返或期间累计阶梯</h3><p class="note">累计阶梯用于月、季、年末；即时核验只支持固定比例。门槛以下按0%计算，分段方式仅对超过每档门槛的区间计提。</p>${fundingTierFields('fb',l.tiers)}</section><div class="banner warn">客户返利默认进入该客户专属返利池，只能结算返利。来源池余额不足时保留客户应享权益，不能自动取消或少返。即时释放同样先核验应享，不直接冒充客户已收款。</div><p id="fundingError" class="error-text" role="alert"></p><button class="primary">保存客户资金策略新版本</button></form>`))}
+function openFundingBinding(id){const l=state.funding.bindings.find(l=>l.id===id);launchPage({kind:'fundingBinding',id},()=>showModal(customer(l.customer).name+' · 客户策略资金时点',`<form id="fundingBindingForm" data-id="${id}"><div class="banner">配置 V${l.version}；新销售使用新版本，既有销售及年返统计保留原快照。入池与给客户付款是两个独立步骤。</div><div class="fields">${fs('fbPolicy','客户商业政策',state.policySchemes.filter(p=>p.customer===l.customer&&p.status==='active').map(p=>[p.id,p.name+' V'+p.version]),l.policyId)}${fs('fbPool','返利来源池',state.funding.pools.filter(p=>p.kind==='operating'&&p.status==='active').map(p=>[p.id,p.name]),l.sourcePool)}${fs('fbTiming','客户返利核验释放时点',Object.entries(fundingTiming),l.rebateTiming)}${fs('fbMethod','返利计算',[['rate','期间净销售固定比例'],['tier','期间累计阶梯']],l.rebateMethod)}${ff('fbRate','固定返利比例 %',l.rebateRate,'number','min="0" max="100" step="0.01" required')}${fs('fbTierMode','累计阶梯方式',[['whole','达档全额'],['segment','按区间分段']],l.tierMode)}${fs('fbLock','入池前的来源处理',[['no','先记录，期末再从来源池划拨'],['yes','先记录并预留来源额度，期末释放']],l.lockEarly?'yes':'no')}${ff('fbService','服务费用销售预留 %',l.serviceRate,'number','min="0" max="100" step="0.01" required')}${ff('fbFrom','新配置生效日',l.from,'date','required')}${ff('fbTo','配置结束日',l.to,'date','required')}</div><section id="fbTierSection"><h3>年返或期间累计阶梯</h3><p class="note">累计阶梯用于月、季、年末；即时核验只支持固定比例。门槛以下按0%计算，分段方式仅对超过每档门槛的区间计提。</p>${fundingTierFields('fb',l.tiers)}</section><section style="margin-top:24px"><h3>同一客户的其他返利策略</h3><p class="note">上方主策略承接年返；下方可增加月返、季返等独立义务，各自选择来源和时点。仅适用于按有效签收净销售计算的比例返利；回款、动销等额外资格需业务核验，不自动推断已达成。每条须为不同合同义务，不能把同一年返再添加一次。</p><div id="fbStrategies">${(l.strategies||[]).map((x,i)=>fundingStrategyRow(x,i)).join('')}</div><button type="button" data-funding-strategy-add>增加一条返利策略</button></section><div class="banner warn">客户返利默认进入该客户专属返利池，只能结算返利。来源池余额不足时保留客户应享权益，不能自动取消或少返。即时释放同样先核验应享，不直接冒充客户已收款。</div><p id="fundingError" class="error-text" role="alert"></p><button type="submit" class="primary">保存客户资金策略新版本</button></form>`))}
 function openFundingSale(){launchPage({kind:'fundingSale'},()=>showModal('登记销售完成事件',`<form id="fundingSaleForm"><div class="fields">${fs('saleKind','业务事件',[['sale','有效签收销售'],['return','关联原销售退货']],'sale')}${fs('saleCustomer','归属客户',customers.map(c=>[c.id,c.name]),'A')}${ff('saleDoc','来源订单 / 退货单号 *','','text','required maxlength="60"')}${ff('saleLine','来源行号 *','1','text','required maxlength="30"')}${ff('saleSku','销售 SKU *','TGX-DEMO-001','text','required')}${ff('saleAmount','不含税净销售 / 本次退货金额（元）',100000,'number','min="0.01" step="0.01" required')}${ff('saleQty','销售 / 退货数量',100,'number','min="0" step="0.01" required')}${ff('saleDate','签收 / 退货业务日期',state.funding.date,'date','required')}${fs('saleOriginal','退货关联原销售（销售事件时不使用）',[['','请选择'],...state.funding.sales.filter(s=>s.kind==='sale').map(s=>[s.id,s.id+' / '+customer(s.customer).name+' / '+s.doc])],'','disabled')}</div><p class="note">退货继承原客户、政策、获取规则及统计期间。提交后生成有来源的入池流水，重复订单行不会重复入池。</p><p id="fundingError" class="error-text" role="alert"></p><button class="primary">确认销售事件并同步资金池</button></form>`))}
 function openFundingBatch(id){const b=state.funding.batches.find(b=>b.id===id);launchPage({kind:'fundingBatch',id},()=>showModal('期间核验 · '+b.id,`<h2>${b.kind==='earn'?'销售获取入池':'客户返利释放'} · ${customer(b.customer).name}</h2>${table(['事项','内容'],[['期间',b.period.key+'，截止 '+b.period.end],['累计计费基数',money(b.basis)],['本次审批差额',money(b.amount)],['目标',b.kind==='rebate'?'从 '+b.pool+' 划拨至客户返利专属池，形成返利应付':'增加 '+b.pool+' 已获取来源'],['当前状态',b.status==='pending'?'待 '+roles[['business','finance'][b.step]]:b.status]])}<h3>审批记录</h3>${table(['岗位','动作','业务日 / 意见'],b.logs.map(l=>[roles[l.who],l.action,l.date+' / '+esc(l.note||'—')]))}${b.status==='pending'?`<label for="fundingOpinion">意见（驳回必填）</label><textarea id="fundingOpinion"></textarea><p id="fundingError" class="error-text" role="alert"></p><div class="actions"><button data-funding-reject="${id}" class="danger">驳回</button><button data-funding-approve="${id}" class="primary">通过当前节点</button></div>`:''}<p class="note">核验通过不等于客户已收到款项。返利批次审批后，在结算与清偿中登记发放；原销售、统计快照及流水保留。</p>`))}
 function openFundingPayout(id){const b=state.funding.batches.find(b=>b.id===id),paid=sum(state.funding.payouts.filter(p=>p.batch===id).map(p=>p.amount));if($('role').value!=='finance')return toast('请切换为财务角色登记返利发放。',true);showModal('客户返利发放',`<form id="fundingPayoutForm" data-id="${id}"><p>${customer(b.customer).name} / ${id}，尚未清偿 ${money(b.amount-paid)}</p>${ff('rebatePayAmount','本次发放（元）',(b.amount-paid)/100,'number','min="0.01" step="0.01" required')}${fs('rebatePayMethod','发放方式',[['cash','现金支付'],['offset','货款抵扣']],'cash')}${ff('rebatePayRef','财务回写流水号 *','','text','required')}<p id="fundingError" class="error-text" role="alert"></p><button class="primary">确认返利清偿回写</button></form>`)}
+
+let fundingStrategyRowSeq=0;
+function fundingStrategyRow(x={},i){const key='st'+(++fundingStrategyRowSeq);return`<section class="card funding-strategy-line" data-line-id="${esc(x.id||'') }" style="margin:12px 0;padding:16px"><div class="fields">${ff(key+'Name','策略名称 / 合同义务 *',x.strategyName||'','text','required data-st="strategyName" maxlength="60"')}${fs(key+'Pool','本策略来源资金池',state.funding.pools.filter(p=>p.kind==='operating'&&p.status==='active').map(p=>[p.id,p.name]),x.sourcePool||MAIN_POOL,'data-st="sourcePool"')}${ff(key+'Rate','按期间净销售返利 %',x.rebateRate??1,'number','min="0" max="100" step="0.01" required data-st="rebateRate"')}${fs(key+'Timing','本策略统计及入池时点',Object.entries(fundingTiming),x.rebateTiming||'month','data-st="rebateTiming"')}${fs(key+'Lock','本策略入池前来源处理',[['no','先记录，期末再划入客户返利池'],['yes','先记录并锁定来源额度']],x.lockEarly?'yes':'no','data-st="lockEarly"')}</div><button type="button" class="danger small" data-funding-strategy-remove style="margin-top:12px">移除本条（保存新版本后生效）</button></section>`}
 
 function fundingFail(error){const node=$('fundingError');if(node)node.textContent=error.message||error;else toast(error.message||error,true)}
 function readFundingTiers(prefix){const t=[0,1,2].map(i=>({min:cents($(prefix+'Min'+i).value),rate:Number($(prefix+'Rate'+i).value)}));if(!(t[0].min<t[1].min&&t[1].min<t[2].min))throw Error('阶梯门槛必须严格递增。');return t}
@@ -1818,13 +1822,13 @@ document.addEventListener('click',e=>{const b=e.target.closest('button');if(!b)r
  if(b.dataset.fundingRetry){requireFundingFinance();retryFundingSale(b.dataset.fundingRetry);render();toast('已完成入池重试，没有重复信用流水。')}
  if(b.dataset.fundingPrepare){const batch=prepareFundingBatch(b.dataset.fundingPrepare);openFundingBatch(batch.id)}if(b.dataset.fundingBatch)openFundingBatch(b.dataset.fundingBatch);
  if(b.dataset.fundingApprove||b.dataset.fundingReject){approveFundingBatch(b.dataset.fundingApprove||b.dataset.fundingReject,!!b.dataset.fundingReject,$('fundingOpinion').value);finishDetail();toast('本节点已处理，资金池与期间记录已同步。')}
- if(b.dataset.fundingPayout)openFundingPayout(b.dataset.fundingPayout);
+ if(b.dataset.fundingPayout)openFundingPayout(b.dataset.fundingPayout);if(b.hasAttribute('data-funding-strategy-add')){$('fbStrategies').insertAdjacentHTML('beforeend',fundingStrategyRow());detailPage.body=$('fullPageBody').innerHTML;}if(b.hasAttribute('data-funding-strategy-remove')){b.closest('.funding-strategy-line').remove();detailPage.body=$('fullPageBody').innerHTML;}
  }catch(error){fundingFail(error)}});
 document.addEventListener('change',e=>{if(e.target.id==='fundingDate'){if(!/^\d{4}-\d{2}-\d{2}$/.test(e.target.value))return;state.funding.date=e.target.value;save();render();toast('仅切换本地模拟业务日，未自动提前入池。')}});
 document.addEventListener('submit',e=>{const f=e.target;if(!['fundingPoolForm','fundingRuleForm','fundingBindingForm','fundingSaleForm','fundingPayoutForm'].includes(f.id))return;e.preventDefault();try{if(!f.reportValidity())return;const data=state.funding;
  if(f.id==='fundingPoolForm'){requireFundingFinance();const old=data.pools.find(p=>p.id===f.dataset.id);if(old?.kind==='rebate')throw Error('客户返利池由批准批次自动维护，不能手动注资或改用途。');const ratios=[0,1,2,3].map(i=>Number($('fpRatio'+i).value));if(old?.status==='active'&&ratios.some((v,i)=>v!==old.ratios[i]))throw Error('已启用池的组织比例固定，请新建资金池承接新的分配。');if(Math.abs(sum(ratios)-100)>.00001)throw Error('组织分配比例合计必须为100%。');if($('fpFrom').value>$('fpTo').value)throw Error('结束日期不能早于开始日期。');const initial=old?.status==='active'?old.initial:cents($('fpInitial').value),cap=cents($('fpCap').value);if(cap<initial)throw Error('预算上限不能低于初始来源。');if(old&&cap<fundingPoolTotals(old.id).source)throw Error('上限不能低于已形成的有效来源。');const p={...(old||{id:nextId('POOL-',data.pools),status:'draft',kind:'operating'}),name:$('fpName').value.trim(),initial,cap,ratios,from:$('fpFrom').value,to:$('fpTo').value};if(!p.name)throw Error('请填写名称。');if(old)data.pools[data.pools.indexOf(old)]=p;else data.pools.push(p);save();finishDetail();return toast('资金池配置已保存；新池需财务启用后才能获取资金。')}
  if(f.id==='fundingRuleForm'){requireFundingFinance();const old=data.rules.find(r=>r.id===f.dataset.id),pool=data.pools.find(p=>p.id===$('frPool').value),from=$('frFrom').value,to=$('frTo').value;if(from>to||from<pool.from||to>pool.to)throw Error('规则有效期应处于目标资金池期间内。');const r={id:old?.id||nextId('GET-',data.rules),version:(old?.version||0)+1,name:$('frName').value.trim(),pool:pool.id,customer:$('frCustomer').value,sku:$('frSku').value.trim(),method:$('frMethod').value,rate:Number($('frRate').value),unit:cents($('frUnit').value),timing:$('frTiming').value,tiers:$('frMethod').value==='tier'?readFundingTiers('fr'):clone(old?.tiers||[{min:5000000,rate:1},{min:10000000,rate:2},{min:20000000,rate:3}]),from,to,status:'active'};if(!r.name||!r.sku)throw Error('规则名称及 SKU 不能为空。');if(old){data.ruleVersions=data.ruleVersions||[];data.ruleVersions.push(clone(old));data.rules[data.rules.indexOf(old)]=r}else data.rules.push(r);save();finishDetail();return toast('新版本规则已生效，原销售快照不变。')}
- if(f.id==='fundingBindingForm'){requireFundingFinance();const old=data.bindings.find(l=>l.id===f.dataset.id),policy=state.policySchemes.find(p=>p.id===$('fbPolicy').value),from=$('fbFrom').value,to=$('fbTo').value;if(!policy||policy.customer!==old.customer||from>to||from<policy.from||to>policy.to)throw Error('客户策略期间必须在所选商业政策期间内。');const l={...clone(old),version:old.version+1,policyId:policy.id,sourcePool:$('fbPool').value,rebateTiming:$('fbTiming').value,rebateMethod:$('fbMethod').value,rebateRate:Number($('fbRate').value),tierMode:$('fbTierMode').value,lockEarly:$('fbLock').value==='yes',serviceRate:Number($('fbService').value),tiers:$('fbMethod').value==='tier'?readFundingTiers('fb'):clone(old.tiers),from,to};if(l.rebateTiming==='instant'&&l.rebateMethod==='tier')throw Error('累计阶梯请使用月末、季末或年末核验；即时核验使用固定比例。');data.bindingVersions=data.bindingVersions||[];data.bindingVersions.push(clone(old));data.bindings[data.bindings.indexOf(old)]=l;save();finishDetail();return toast('客户策略资金时点已保存，新销售使用新版本。')}
+ if(f.id==='fundingBindingForm'){requireFundingFinance();const old=data.bindings.find(l=>l.id===f.dataset.id),policy=state.policySchemes.find(p=>p.id===$('fbPolicy').value),from=$('fbFrom').value,to=$('fbTo').value;if(!policy||policy.customer!==old.customer||from>to||from<policy.from||to>policy.to)throw Error('客户策略期间必须在所选商业政策期间内。');const l={...clone(old),version:old.version+1,policyId:policy.id,sourcePool:$('fbPool').value,rebateTiming:$('fbTiming').value,rebateMethod:$('fbMethod').value,rebateRate:Number($('fbRate').value),tierMode:$('fbTierMode').value,lockEarly:$('fbLock').value==='yes',serviceRate:Number($('fbService').value),tiers:$('fbMethod').value==='tier'?readFundingTiers('fb'):clone(old.tiers),from,to};if(l.rebateTiming==='instant'&&l.rebateMethod==='tier')throw Error('累计阶梯请使用月末、季末或年末核验；即时核验使用固定比例。');l.strategies=readFundingStrategies(old);data.bindingVersions=data.bindingVersions||[];data.bindingVersions.push(clone(old));data.bindings[data.bindings.indexOf(old)]=l;save();finishDetail();return toast('客户策略资金时点已保存，新销售使用新版本。')}
  if(f.id==='fundingSaleForm'){if($('role').value!=='sales')throw Error('请切换为销售角色提交销售完成事件。');const s=postFundingSale({kind:$('saleKind').value,customer:$('saleCustomer').value,doc:$('saleDoc').value,line:$('saleLine').value,sku:$('saleSku').value.trim(),base:cents($('saleAmount').value),qty:Number($('saleQty').value),date:$('saleDate').value,original:$('saleOriginal').value});log('销售与资金同步',s.id+' / '+s.status+'，获取规则 '+s.rule.id+' V'+s.rule.version);finishDetail();return toast(s.status==='posted'?'销售已入账，资金池及客户数据已更新。':s.status==='period'?'销售已累计，未到期间核验前不增加可用资金。':'销售已记录，超过上限的资金等待处理。')}
  if(f.id==='fundingPayoutForm'){requireFundingFinance();const b=data.batches.find(b=>b.id===f.dataset.id);if(b?.status!=='approved'||b.kind!=='rebate'||data.date<b.period.end)throw Error('该批次尚未满足返利清偿条件。');const group=fundingGroups().find(g=>g.key===b.key);if(group?.delta<0)throw Error('原销售调整后应享减少，先进入冲销或追偿核对，暂停继续发放。');const amount=cents($('rebatePayAmount').value),ref=$('rebatePayRef').value.trim(),paid=sum(data.payouts.filter(p=>p.batch===b.id).map(p=>p.amount));if(data.payouts.some(p=>p.ref===ref)||!ref)throw Error('财务流水号为空或已回写，不能重复发放。');if(amount<=0||amount>b.amount-paid||amount>fundingPoolTotals(b.targetPool).available)throw Error('超过批次应付或客户返利池可用余额。');data.payouts.push({id:nextId('REBATE-PAY-',data.payouts),batch:b.id,pool:b.targetPool,customer:b.customer,amount,ref,method:$('rebatePayMethod').value,date:data.date});log('客户返利清偿',b.id+' / '+money(amount)+'，不再次扣来源池。');closeModal();render();return toast('返利清偿已回写，客户返利池和客户台账已同步。')}
  }catch(error){fundingFail(error)}});
@@ -1834,6 +1838,8 @@ document.addEventListener('change',e=>{if(['saleKind','saleOriginal'].includes(e
 
 function syncFundingConfigVisibility(){const field=(id,show)=>{const node=$(id);if(!node)return;node.closest('.field').classList.toggle('hidden',!show);node.disabled=!show},section=(id,show)=>{const node=$(id);if(!node)return;node.hidden=!show;node.querySelectorAll('input,select').forEach(x=>x.disabled=!show)};if($('frMethod')){const m=$('frMethod').value;field('frRate',m==='rate');field('frUnit',m==='quantity');section('frTierSection',m==='tier')}if($('fbMethod')){const tier=$('fbMethod').value==='tier';field('fbRate',!tier);field('fbTierMode',tier);section('fbTierSection',tier)}}
 document.addEventListener('change',e=>{if(['frMethod','fbMethod'].includes(e.target.id))syncFundingConfigVisibility()});
+
+function readFundingStrategies(old){const names=new Set(['年返']),ids=new Set(),rows=[...$('fbStrategies').querySelectorAll('.funding-strategy-line')];return rows.map((node,i)=>{const value=k=>node.querySelector('[data-st="'+k+'"]').value;const name=value('strategyName').trim();if(!name||names.has(name))throw Error('返利策略名称不能为空或重复；同一合同年返不要重复添加。');names.add(name);let id=node.dataset.lineId;if(!id)id='STR-'+(state.funding.bindings.find(l=>l.id===old.id).version+1)+'-'+(i+1);if(ids.has(id))throw Error('策略行重复，请重新打开配置。');ids.add(id);return{id,strategyName:name,sourcePool:value('sourcePool'),rebateRate:Number(value('rebateRate')),rebateTiming:value('rebateTiming'),lockEarly:value('lockEarly')==='yes'}})}
 
 // 将新的销售获取流水接入原组织余额、客户台账、活动审批和清偿，保留旧期初。
 let activityFundingContext=null;const beforeFundingBalances=balances,beforeFundingPools=poolsView,beforeFundingCustomerData=customerLedgerData,beforeFundingCustomerBody=customerLedgerBody,beforeFundingActivity=newActivity,beforeFundingSubmit=submitActivity,beforeFundingApprove=approve,beforeFundingApprovalView=approvalView,beforeFundingSettlement=settlementView,beforeFundingRender=render;
